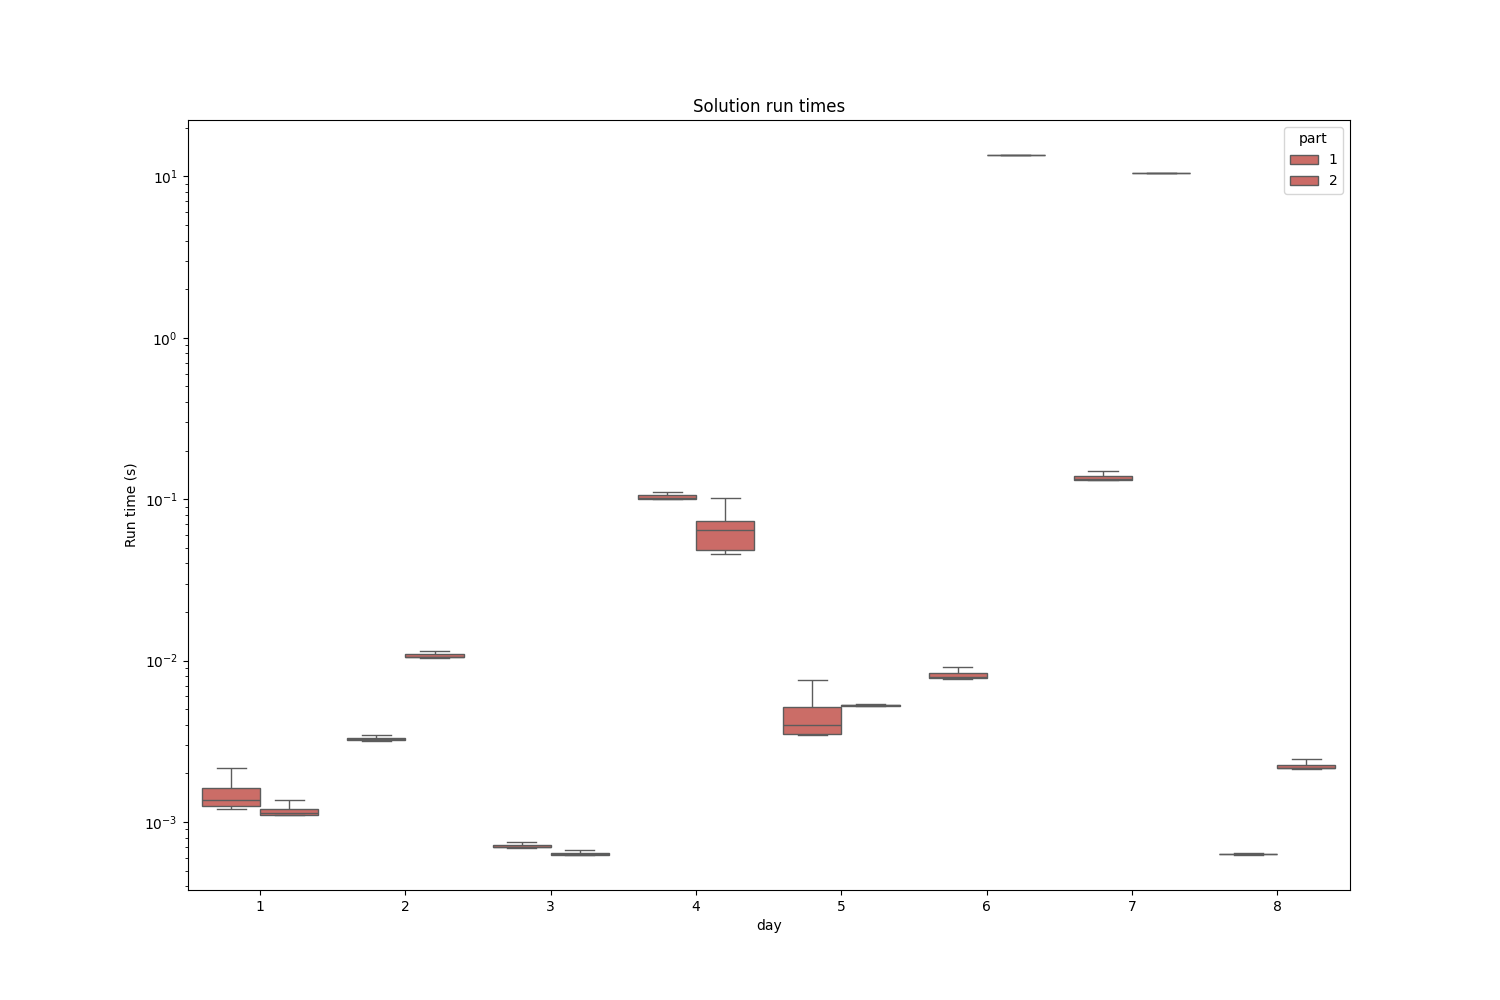
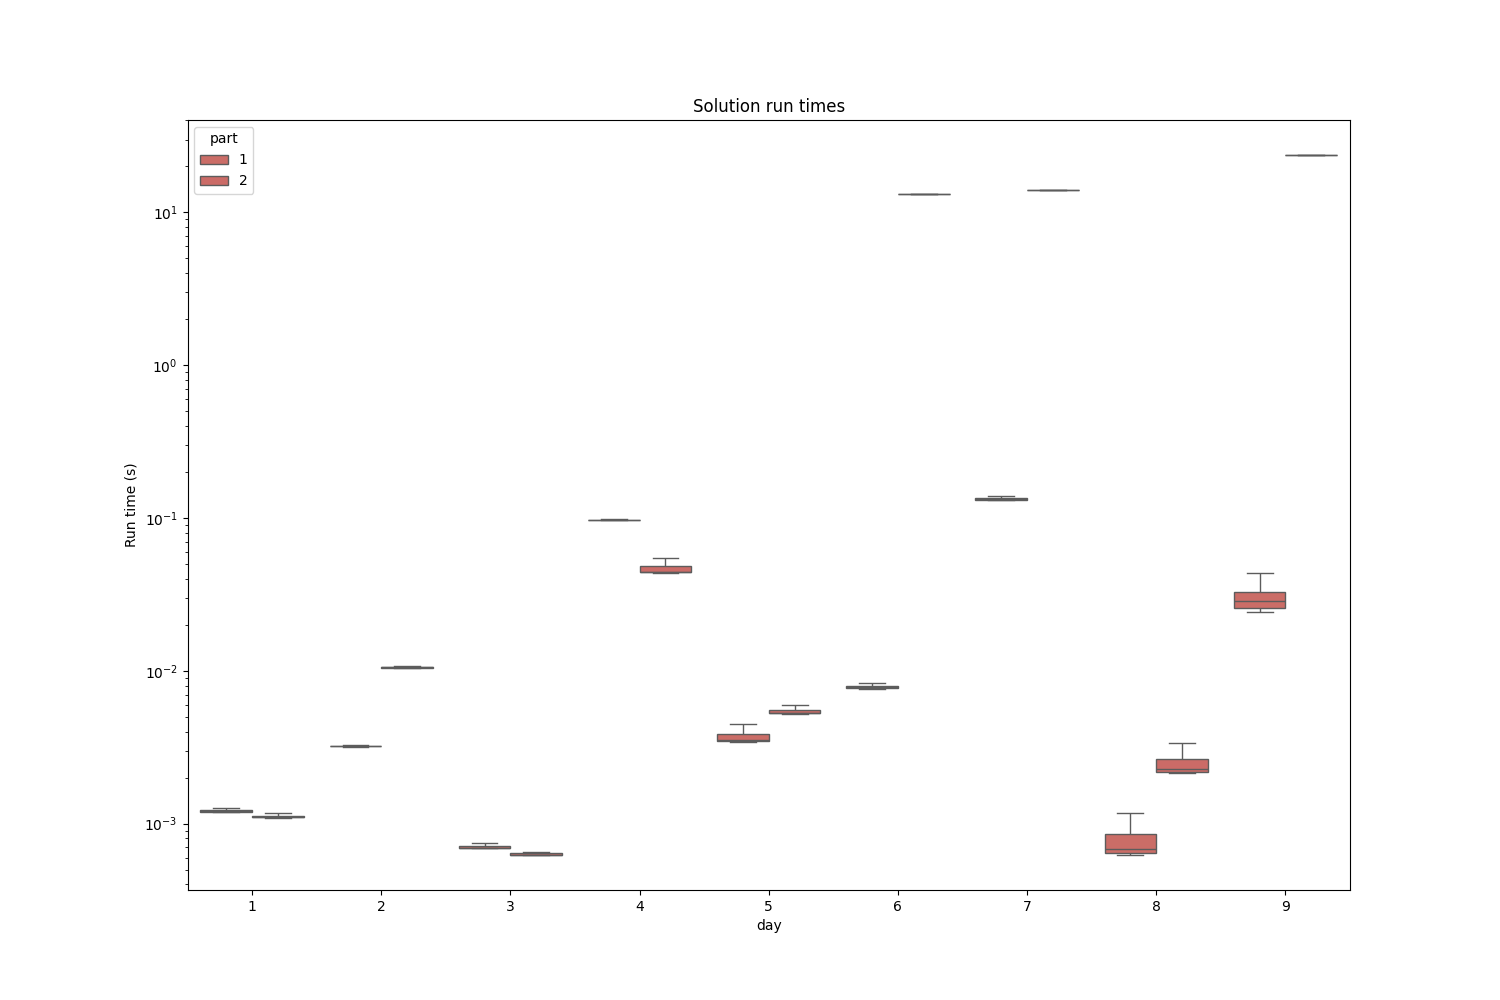
day9

diff --git a/aoc/day_09.py b/aoc/day_09.py
@@ -1,0 +1,100 @@
+
+
+def part_one(file_path: str):
+    """[summary]
+
+    Args:
+        file_path (str): [description]
+
+    Returns:
+        [type]: [description]
+    """
+
+    # read file
+    with open(file_path) as f:
+        lines = f.readlines()
+    filesystem = []
+    for i, val in enumerate((map(int, lines[0]))):
+        if i % 2 == 0:
+            filesystem += [i // 2] * val
+        else:
+            filesystem += [""] * val
+    i = 0
+    checksum = 0
+    while i < len(filesystem):
+        if filesystem[i] == "":
+            val = filesystem.pop()
+            while val == "":
+                val = filesystem.pop()
+            if i > len(filesystem):
+                break
+            checksum += val * i
+        else:
+            checksum += filesystem[i] * i
+        i += 1
+    return checksum
+
+
+class FileSystem:
+    def __init__(self, start_point, length, value):
+        self.start_point = start_point
+        self.length = length
+        self.value = value
+
+    @property
+    def checksum(self):
+        return sum(
+            [
+                self.value * i
+                for i in range(self.start_point, self.start_point + self.length)
+            ]
+        )
+
+
+def filter_gap(file, gap):
+
+    return file.start_point > gap.start_point and file.length <= gap.length
+
+
+def part_two(file_path: str):
+    """[summary]
+
+    Args:
+        file_path (str): [description]
+
+    Returns:
+        [type]: [description]
+    """
+
+    with open(file_path) as f:
+        lines = f.readlines()
+
+    files = []
+    gaps = []
+    start_point = 0
+    for i, v in enumerate(map(int, lines[0])):
+        if i % 2 == 0:
+            files.append(FileSystem(start_point=start_point, length=v, value=i // 2))
+        else:
+            gaps.append(FileSystem(start_point=start_point, length=v, value=None))
+        start_point += v
+
+    filled_gaps = []
+
+    for file in files[::-1]:
+        fitted_gaps = list(filter(lambda x: filter_gap(file, x), gaps))
+        if fitted_gaps:
+            gap = fitted_gaps[0]
+            file.start_point = gap.start_point
+
+            gap.length -= file.length
+            gap.start_point += file.length
+
+        filled_gaps.append(file)
+
+    return sum(list(map(lambda x: x.checksum, filled_gaps)))
+
+
+if __name__ == "__main__":
+    print(part_one("aoc/inputs/day_09.txt"))
+    print(part_two("aoc/inputs/day_09.txt"))

diff --git a/tests/test_day_09.py b/tests/test_day_09.py
@@ -1,0 +1,15 @@
+from aoc.day_09 import part_one, part_two
+
+
+def test_part_one():
+
+    test_file_path = "tests/test_inputs/test_day_09.txt"
+
+    assert part_one(test_file_path) == 1928
+
+
+def test_part_two():
+
+    test_file_path = "tests/test_inputs/test_day_09.txt"
+
+    assert part_two(test_file_path) == 2858
